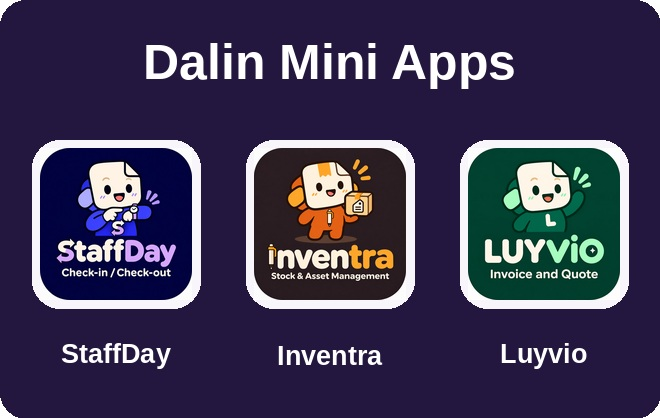
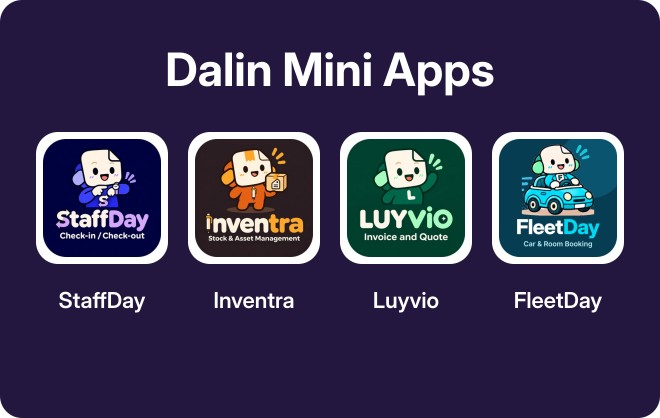
Add FleetDay to the sales bot and catalog
- FleetDay product card (bot menu, /start fleetday deep links, catalog Mini App)
- 'Start free trial' opens the FleetDay bot, where customers create their own
  trial company; the sales group gets one notification per customer
- Questions are tagged as FleetDay sales tickets
- New FleetDay catalog icon and a welcome image showing all four apps
- FLEETDAY_URL / FLEETDAY_TRIAL_DAYS settings (optional, with defaults)
- Tests for the FleetDay flows

Claude-Session: https://claude.ai/code/session_014PU5BRTpjYWZ92T1mqsdiP

diff --git a/src/bot.js b/src/bot.js
@@ -7,6 +7,7 @@ const PRODUCTS = {
   staffday: { name: 'StaffDay', prefix: 'SD', details: 'កត់វត្តមានតាមទីតាំង ស្នើសុំឈប់សម្រាក និងទាញរបាយការណ៍ HR។', en: 'Record attendance by location, request leave and download HR reports.' },
   inventra: { name: 'Inventra', prefix: 'IN', details: 'គ្រប់គ្រងទំនិញចូលចេញ ស្តុក ទ្រព្យសម្បត្តិ និង QR។', en: 'Manage stock movements, inventory and assets with QR codes.' },
   luyvio: { name: 'Luyvio', prefix: 'LU', details: 'បង្កើតវិក្កយបត្រ សម្រង់តម្លៃ និងឯកសារ PDF។', en: 'Create invoices and quotes and export them as PDFs.' },
+  fleetday: { name: 'FleetDay', prefix: 'FD', details: 'កក់ឡាន និងបន្ទប់ប្រជុំរបស់ក្រុមហ៊ុន ហើយអនុម័តភ្លាមៗក្នុងក្រុម Telegram។', en: 'Book company cars and meeting rooms, approved right in your Telegram group.' },
 };
 
 const STAGES = {
@@ -109,7 +110,8 @@ export function createBot(store, config, clock = Date.now) {
         ], catalogUrl + 'welcome.jpg');
       }
       return say(tr('សួស្តី! សូមជ្រើសកម្មវិធីសម្រាប់ការងារប្រចាំថ្ងៃរបស់អ្នក។', text), [
-        [callback('StaffDay', 'product:staffday'), callback('Inventra', 'product:inventra'), callback('Luyvio', 'product:luyvio')],
+        [callback('StaffDay', 'product:staffday'), callback('Inventra', 'product:inventra')],
+        [callback('Luyvio', 'product:luyvio'), callback('FleetDay', 'product:fleetday')],
         [callback(myRequests, 'mine'), callback(contact, 'ask:general')],
       ]);
     };
@@ -123,9 +125,14 @@ export function createBot(store, config, clock = Date.now) {
         buttons.push([callback(requestTrial, 'starttrial')]);
       }
       if (key === 'luyvio' && config.luyvioTrialApi) buttons.push([callback(requestTrial, 'lu-start')]);
+      if (key === 'fleetday' && config.fleetdayUrl) buttons.push([callback(tr('សាកល្បងឥតគិតថ្លៃ', 'Start free trial'), 'fd-trial')]);
       buttons.push([callback(contact, 'ask:' + key), callback(tr('ត្រឡប់', 'Back'), 'menu')]);
-      const trial = key === 'staffday' ? '\n' + tr('សាកល្បង ' + config.trialDays + ' ថ្ងៃ។', config.trialDays + '-day trial.') +
+      let trial = key === 'staffday' ? '\n' + tr('សាកល្បង ' + config.trialDays + ' ថ្ងៃ។', config.trialDays + '-day trial.') +
         (config.priceLabel ? '\n' + config.priceLabel : '') : '';
+      if (key === 'fleetday' && config.fleetdayUrl) {
+        const days = config.fleetdayTrialDays || 14;
+        trial = '\n' + tr('សាកល្បងឥតគិតថ្លៃ ' + days + ' ថ្ងៃ — បង្កើតក្រុមហ៊ុនដោយខ្លួនឯងក្នុង FleetDay។', days + '-day free trial — set up your company yourself in FleetDay.');
+      }
       return say(entry.name + '\n' + tr(entry.details, entry.en) + trial, buttons);
     };
     const showLead = lead => {
@@ -150,7 +157,7 @@ export function createBot(store, config, clock = Date.now) {
     if (/^\/start(?:\s|$)/.test(input)) {
       store.forget('drafts', user);
       const payload = input.split(/\s+/, 2)[1] || '';
-      const match = /^(staffday|inventra|luyvio)(?:_([a-z0-9_-]{1,45}))?$/.exec(payload);
+      const match = /^(staffday|inventra|luyvio|fleetday)(?:_([a-z0-9_-]{1,45}))?$/.exec(payload);
       return match ? product(match[1], match[2] || 'direct') : menu();
     }
     if (data === 'menu' || input === '/cancel') {
@@ -163,6 +170,19 @@ export function createBot(store, config, clock = Date.now) {
     }
     if (selectedLanguage) return menu();
     if (data?.startsWith('product:')) return product(data.split(':')[1], 'catalog');
+    if (data === 'fd-trial') {
+      if (!config.fleetdayUrl) return product('fleetday', 'direct');
+      const who = [profile?.first_name, profile?.last_name].filter(Boolean).join(' ') || 'User';
+      dueMessage('fd-trial:' + user, config.salesChat, 'FleetDay · មានអ្នកចាប់ផ្តើមសាកល្បង\n' + who +
+        (profile?.username ? ' (@' + profile.username + ')' : '') + ' · ID ' + user +
+        '\nប្រភព: ' + ((draft?.product === 'fleetday' && draft.source) || 'direct') +
+        '\nតាមដានក្នុង FleetDay → Owner', now);
+      return say(tr('ចុចប៊ូតុងខាងក្រោម ដើម្បីបើក FleetDay ហើយបង្កើតក្រុមហ៊ុនរបស់អ្នក។ ការសាកល្បងចាប់ផ្តើមភ្លាមៗ។',
+        'Tap the button below to open FleetDay and create your company. Your trial starts straight away.'), [
+        [link(tr('បើក FleetDay', 'Open FleetDay'), config.fleetdayUrl)],
+        [callback(contact, 'ask:fleetday'), callback(tr('ត្រឡប់', 'Back'), 'menu')],
+      ]);
+    }
     if (data === 'demo') {
       const rows = [];
       if (config.demoUrl) rows.push([link('វីដេអូ Check In / Check Out', config.demoUrl)]);

diff --git a/test/catalog.test.js b/test/catalog.test.js
@@ -36,7 +36,8 @@ test('catalog validates Telegram identity and routes all customer actions throug
     body: JSON.stringify({ action, initData: signedData(), ...extra }),
   });
   const page = await fetch(url);
-  assert.match(await page.text(), /StaffDay[\s\S]*Inventra[\s\S]*Luyvio/);
+  assert.match(await page.text(), /StaffDay[\s\S]*Inventra[\s\S]*Luyvio[\s\S]*FleetDay/);
+  assert.equal((await fetch(url + 'fleetday.webp', { method: 'HEAD' })).headers.get('content-type'), 'image/webp');
   assert.equal((await fetch(url + 'khmer.ttf', { method: 'HEAD' })).headers.get('content-type'), 'font/ttf');
   assert.equal((await send('session', { initData: signedData().replace('600', '601') })).status, 401);
   assert.equal((await send('session', { initData: signedData(Date.now() - 3_700_000) })).status, 401);
@@ -46,7 +47,7 @@ test('catalog validates Telegram identity and routes all customer actions throug
   assert.deepEqual(await (await send('language', { language: 'en' })).json(), { language: 'en' });
 
   const requestId = randomUUID();
-  for (const action of ['staffday', 'inventra', 'luyvio', 'mine', 'contact']) {
+  for (const action of ['staffday', 'inventra', 'luyvio', 'fleetday', 'mine', 'contact']) {
     assert.equal((await send(action, { requestId, chat_id: 999 })).status, 200, action);
   }
   assert.equal((await send('staffday', { requestId })).status, 200);
@@ -54,13 +55,14 @@ test('catalog validates Telegram identity and routes all customer actions throug
   const sent = [];
   const telegram = async (_method, body) => sent.push(body);
   while (await runJob({ store, bot, config, telegram }, 'telegram')) {}
-  assert.equal(sent.length, 5);
+  assert.equal(sent.length, 6);
   assert.ok(sent.every(message => message.chat_id === String(userId)));
   assert.equal(sent[0].reply_markup.inline_keyboard[0][0].callback_data, 'starttrial');
   assert.equal(sent[1].reply_markup.inline_keyboard[0][0].callback_data, 'ask:inventra');
   assert.equal(sent[2].reply_markup.inline_keyboard[0][0].callback_data, 'ask:luyvio');
-  assert.match(sent[3].text, /no requests/);
-  assert.match(sent[4].text, /sales team/);
+  assert.equal(sent[3].reply_markup.inline_keyboard[0][0].callback_data, 'ask:fleetday');
+  assert.match(sent[4].text, /no requests/);
+  assert.match(sent[5].text, /sales team/);
 });
 
 test('private /start shows the Mini App button even when Telegram rejects the welcome photo', async t => {

diff --git a/test/sales.test.js b/test/sales.test.js
@@ -406,3 +406,39 @@ test('an uncertain StaffDay response is retried with the same approval ID', asyn
   assert.deepEqual(staffday.calls.map(call => call.requestId),[requestId,requestId]);
   assert.equal(staffday.receipts.size,1);
 });
+
+test('FleetDay: deep link shows the product, free trial opens FleetDay and tells the sales group once', async t => {
+  const e = setup(t, { fleetdayUrl: 'https://t.me/FleetDayDalinBot', fleetdayTrialDays: 14 });
+  e.message(guest, '/start fleetday_fb');
+  e.click(guest, 'fd-trial');
+  e.click(guest, 'fd-trial');
+  await e.drain();
+  const card = e.sent.find(row => row.text?.startsWith('FleetDay'));
+  assert.match(card.text, /សាកល្បងឥតគិតថ្លៃ 14 ថ្ងៃ/);
+  assert.equal(card.reply_markup.inline_keyboard[0][0].callback_data, 'fd-trial');
+  const opens = e.sent.filter(row => row.chat_id === String(guest) && row.reply_markup?.inline_keyboard[0][0].url);
+  assert.equal(opens.length, 2);
+  assert.equal(opens[0].reply_markup.inline_keyboard[0][0].url, 'https://t.me/FleetDayDalinBot');
+  const salesNotes = e.sent.filter(row => row.chat_id === String(group.id) && /FleetDay/.test(row.text));
+  assert.equal(salesNotes.length, 1);
+  assert.match(salesNotes[0].text, /ប្រភព: fb/);
+});
+
+test('FleetDay: questions become sales tickets tagged with the product', async t => {
+  const e = setup(t);
+  e.message(guest, '/start fleetday');
+  e.click(guest, 'ask:fleetday');
+  e.message(guest, 'Can drivers log fuel?');
+  const [ticket] = e.store.all('tasks');
+  assert.equal(ticket.product, 'fleetday');
+  await e.drain();
+  assert.ok(e.sent.some(row => row.chat_id === String(group.id) && /FleetDay/.test(row.text)));
+});
+
+test('FleetDay: config defaults to the FleetDay bot and rejects a non-HTTPS link', () => {
+  const base = { BOT_TOKEN: '1:abc', SALES_CHAT_ID: '-100', OWNER_IDS: '1', STAFFDAY_URL: 'https://t.me/a',
+    NOTION_TOKEN: 'x', NOTION_LEADS_SOURCE_ID: 'l', NOTION_TASKS_SOURCE_ID: 't' };
+  assert.equal(loadConfig(base).fleetdayUrl, 'https://t.me/FleetDayDalinBot');
+  assert.equal(loadConfig(base).fleetdayTrialDays, 14);
+  assert.throws(() => loadConfig({ ...base, FLEETDAY_URL: 'http://t.me/x' }), /FLEETDAY_URL/);
+});

diff --git a/src/config.js b/src/config.js
@@ -54,6 +54,10 @@ export function loadConfig(env = process.env) {
     }
     trialApi = {origin: origin.origin, secret: trialApiSecret};
   }
+  const fleetdayUrl = env.FLEETDAY_URL?.trim() || 'https://t.me/FleetDayDalinBot';
+  if (!httpsUrl(fleetdayUrl)) throw new Error('Invalid HTTPS URL in FLEETDAY_URL');
+  const fleetdayTrialDays = positiveInteger(env.FLEETDAY_TRIAL_DAYS || '14', 1, 90);
+  if (!fleetdayTrialDays) throw new Error('Invalid FLEETDAY_TRIAL_DAYS');
   const catalogSetting = env.CATALOG_PUBLIC_URL?.trim();
   const luyvioOrigin = env.LUYVIO_TRIAL_API_URL?.trim();
   const luyvioSecret = env.LUYVIO_TRIAL_API_SECRET?.trim();
@@ -86,6 +90,7 @@ export function loadConfig(env = process.env) {
     reportDemoUrl: env.HR_REPORT_DEMO_URL?.trim(),
     priceLabel: env.STAFFDAY_PRICE_LABEL?.trim(),
     stars, starsAmount, trialDays, trialApi, luyvioTrialApi, luyvioUrl, catalogOrigin, port,
+    fleetdayUrl, fleetdayTrialDays,
     dataDir: env.RAILWAY_VOLUME_MOUNT_PATH || env.DATA_DIR || './data',
     notionToken: requireSetting(env, 'NOTION_TOKEN'),
     sources: {

diff --git a/public/catalog/catalog.js b/public/catalog/catalog.js
@@ -6,6 +6,7 @@ const copy = {
     staffday: 'វត្តមាន និងការឈប់សម្រាក',
     inventra: 'គ្រប់គ្រងស្តុក និងទ្រព្យសម្បត្តិ',
     luyvio: 'វិក្កយបត្រ និងសម្រង់តម្លៃ',
+    fleetday: 'កក់ឡាន និងបន្ទប់ប្រជុំ',
     mine: 'សំណើរបស់ខ្ញុំ',
     contact: 'ទាក់ទងក្រុមលក់',
     openBot: 'សូមបើកកាតាឡុកពីប៊ូតុង «មើលផលិតផល» ក្នុង Telegram Bot។',
@@ -21,6 +22,7 @@ const copy = {
     staffday: 'Attendance & Leave',
     inventra: 'Stock & Asset Management',
     luyvio: 'Invoices & Quotes',
+    fleetday: 'Car & Meeting Room Booking',
     mine: 'My requests',
     contact: 'Contact sales',
     openBot: 'Open the catalog from the View products button in the Telegram bot.',

diff --git a/src/catalog-http.js b/src/catalog-http.js
@@ -11,11 +11,12 @@ const files = {
   'staffday.webp': ['staffday.webp', 'image/webp'],
   'inventra.webp': ['inventra.webp', 'image/webp'],
   'luyvio.webp': ['luyvio.webp', 'image/webp'],
+  'fleetday.webp': ['fleetday.webp', 'image/webp'],
   'welcome.jpg': ['welcome.jpg', 'image/jpeg'],
   'khmer.ttf': ['khmer.ttf', 'font/ttf'],
   'khmer-bold.ttf': ['khmer-bold.ttf', 'font/ttf'],
 };
-const chatActions = new Set(['staffday', 'inventra', 'luyvio', 'mine', 'contact']);
+const chatActions = new Set(['staffday', 'inventra', 'luyvio', 'fleetday', 'mine', 'contact']);
 const languages = new Set(['km', 'en']);
 
 export function telegramProfile(initData, token, now = Date.now()) {

diff --git a/public/catalog/index.html b/public/catalog/index.html
@@ -56,6 +56,14 @@
         </span>
         <span class="arrow" aria-hidden="true"></span>
       </button>
+      <button class="product fleetday" type="button" data-action="fleetday">
+        <img src="fleetday.webp" alt="" width="112" height="112">
+        <span class="product-copy">
+          <strong>FleetDay</strong>
+          <span data-copy="fleetday">កក់ឡាន និងបន្ទប់ប្រជុំ</span>
+        </span>
+        <span class="arrow" aria-hidden="true"></span>
+      </button>
     </div>
     <div class="actions">
       <button type="button" data-action="mine" data-copy="mine">សំណើរបស់ខ្ញុំ</button>

diff --git a/public/catalog/catalog.css b/public/catalog/catalog.css
@@ -51,6 +51,7 @@ h1 { font-size: clamp(1.55rem, 6vw, 2.15rem); line-height: 1.45; margin: 0; }
 .staffday { --border: #ded2f4; --fill: #eee9fb; --accent: #5230b0; }
 .inventra { --border: #efd8bd; --fill: #f9efe4; --accent: #8d490e; }
 .luyvio { --border: #cbe6d9; --fill: #e6f2eb; --accent: #13694d; }
+.fleetday { --border: #bfe3ee; --fill: #e3f4f9; --accent: #06506a; }
 .product img {
   display: block; width: clamp(4rem, 19vw, 6.5rem); height: auto;
   border: .24rem solid white; border-radius: 1rem; background: white;
